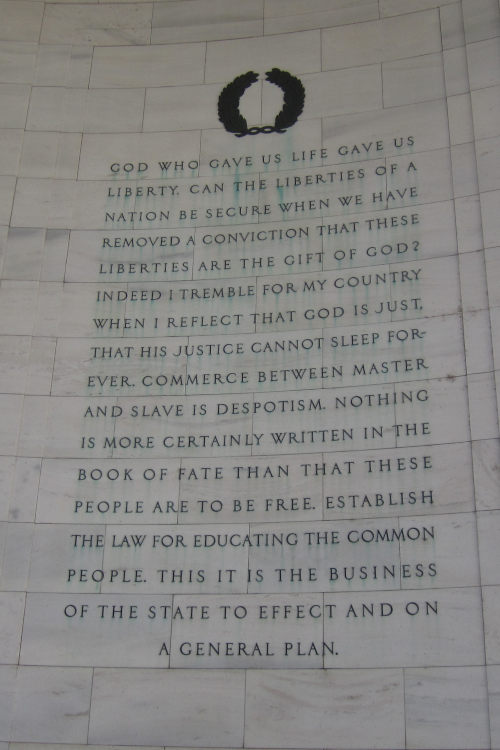
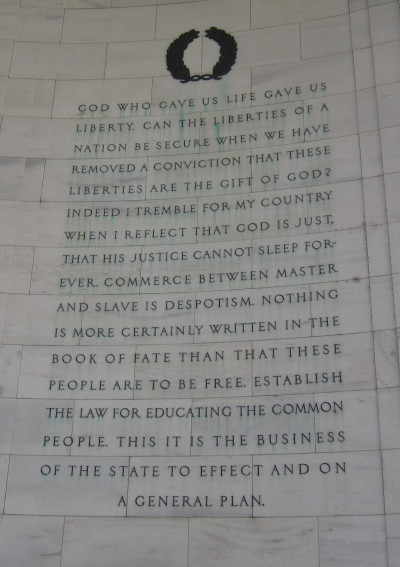
Resize Panel 3: from 500 px wide to 350 px wide
* resize Panel 3: from 500 px wide to 350 px wide

diff --git a/styles/tailwind.css b/styles/tailwind.css
@@ -40,7 +40,7 @@
   font-display: swap;
 }
 
-ol.disc {
+ul.disc {
   list-style: disc;
   margin: 10px 0 0 50px;
 }
@@ -89,7 +89,7 @@ a.footnote {
 }
 
 .panel-width {
-  width: 500px
+  width: 350px
 }
 
 ul#footer {
